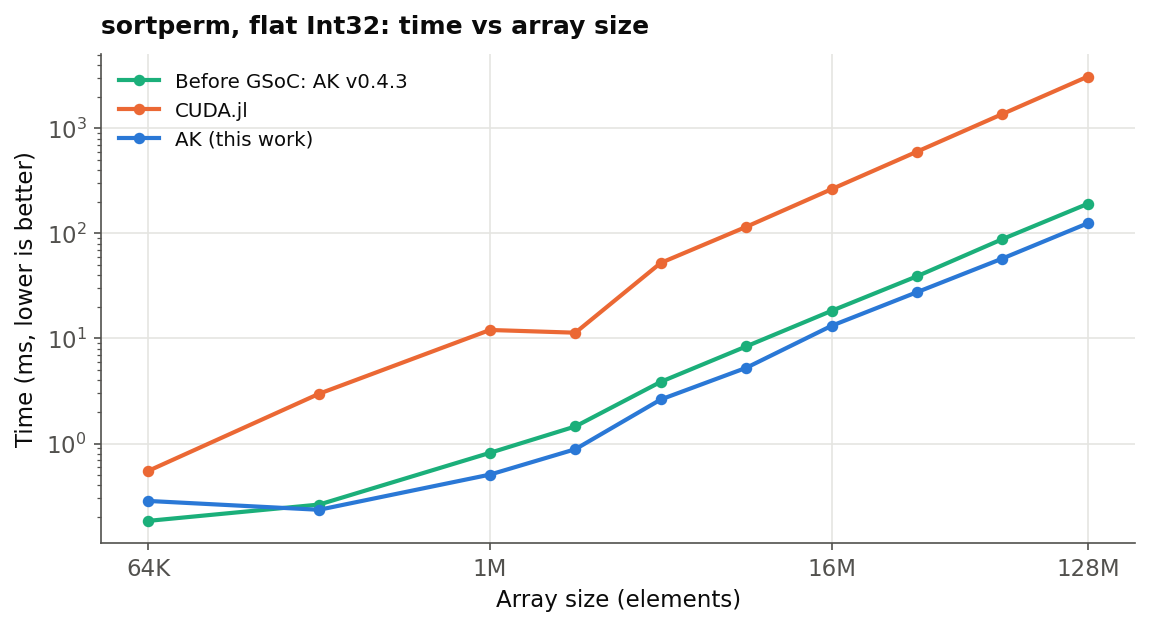
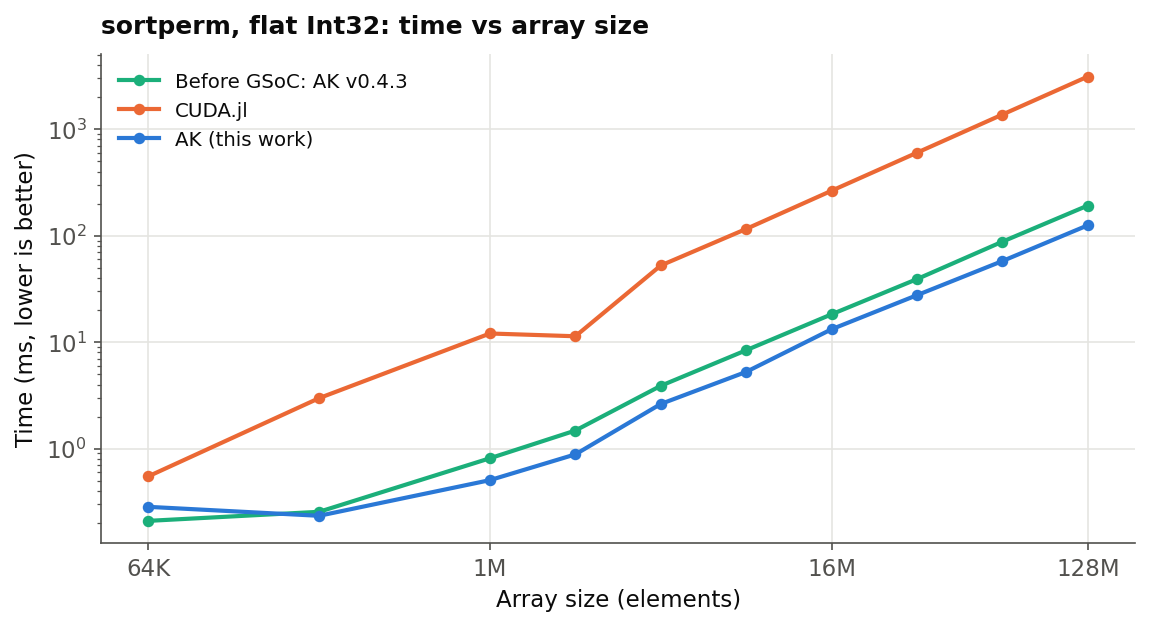
Chart from exact pre-rework checkout bfe4d84; cite commit in methodology

diff --git a/post/2026-10-14-gsoc-portability/index.md b/post/2026-10-14-gsoc-portability/index.md
@@ -77,9 +77,10 @@ little on slice length. The `Auto()` selector chooses between them per input.
 timed on the device with `CUDA.@elapsed`, taking the minimum of 12 runs, warmed,
 refreshing the input each iteration for mutating operations, and using AK's default
 settings with no per-device tuning. To show the effect of the work honestly, each
-operation is compared against the state of AcceleratedKernels before the project (the
-v0.4.3 release, profiled on the same machine) and against the CUDA.jl vendor path. The
-results per operation follow.
+operation is compared against the state of AcceleratedKernels before the project and
+against the CUDA.jl vendor path. The "before" numbers come from checking out AK at the
+exact commit just before this work began (`bfe4d84`, the v0.4.3 line) and profiling it
+on the same machine. The results per operation follow.
 
 ## Results by operation
 
